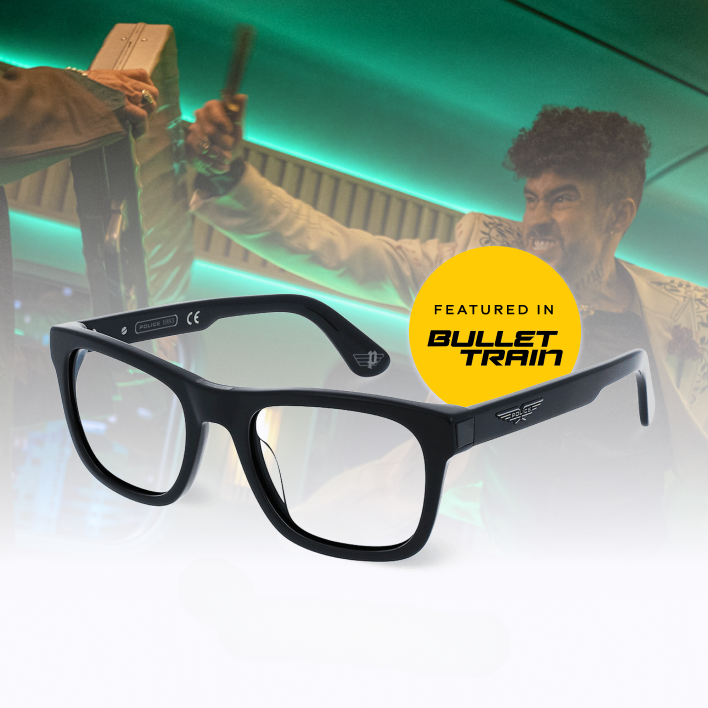
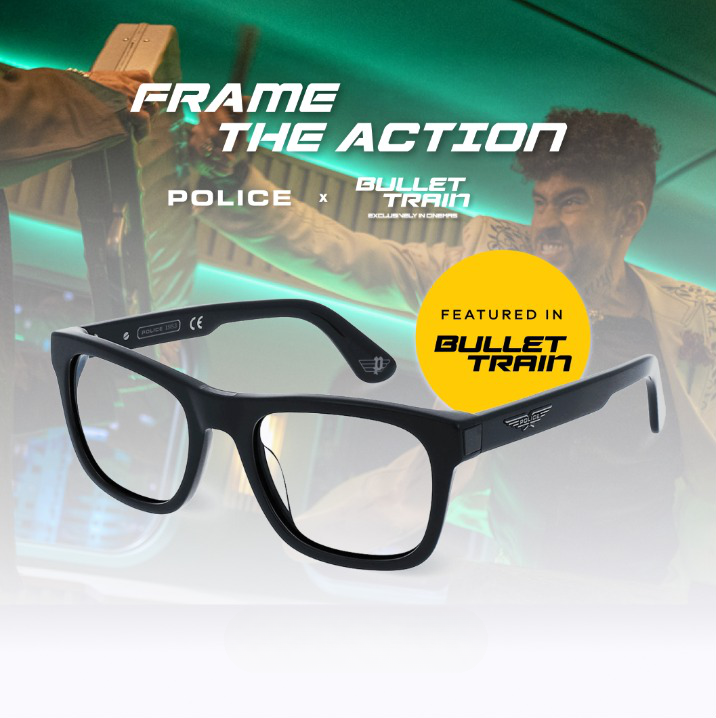
new brands and new assets in first slide

diff --git a/components/HeroWithSlider.jsx b/components/HeroWithSlider.jsx
@@ -1,6 +1,7 @@
 import Image from 'next/image'
 import {AppContext} from "../helpers/Context";
-import FirstImage from "../public/hero_banner-2.png";
+import FirstImage from "../public/FinalHero.png";
+import SecondImage from "../public/brand_and_glass.png";
 
 import Location from "../public/location1.png";
 
@@ -155,38 +156,30 @@ function HeroWithSlider() {
 
   return (
 
-    <section className="w-full md2:px-5 xl:px-0 xl:max-w-[85%] xl:mx-auto flex flex-col md:pt-20 pb-16">
+    <section className="w-full md2:px-5 xl:px-0 xl:max-w-[85%] xl:mx-auto flex flex-col md2:pt-20 pb-16">
 
       <div className="relative h-[512px] w-full grid md2:hidden">
 
         <Image
           src={FirstImage}
           alt="Alt text"
-          layout="responsive"
+          layout="fill"
           quality={100}
           priority={true}
-          className="object-cover object-right"
+          className="object-cover object-center"
         />
 
-        <div className="absolute w-[90.1%] max-w-[386px] bottom-[30.85%] left-[4.9%] xs:left-[calc(50%-193px)]">
-          <Image
-            src={Glass}
-            alt="Alt"
-            layout="intrinsic"
-            quality={100}
-            priority={true}
-            className="z-[3]"
-          />
-        </div>
-
-        <div className="absolute w-[31.54%] max-w-[136px] left-[19.6%] xs:left-[calc(51%-68px)] bottom-[58.5%] z-[4]">
-          <Image
-            src={Badge}
-            alt="Alt"
-            layout="intrinsic"
-            quality={100}
-            priority={true}
-          />
+        <div className="absolute top-10 w-full z-[2]">
+          <div className="flex flex-col w-full justify-center mx-auto max-w-[390px] relative">
+            <Image
+              src={SecondImage}
+              alt="Alt text"
+              layout="intrinsic"
+              quality={100}
+              priority={true}
+              className="object-cover object-center"
+            />
+          </div>
         </div>
 
         <div className="absolute w-full bottom-[22px] inset-x-0 flex flex-col">

diff --git a/components/Brands.jsx b/components/Brands.jsx
@@ -19,6 +19,12 @@ import JohnLogo from "../public/john_logo.svg";
 import LuckyBanner from "../public/lucky_banner.png";
 import LuckyLogo from "../public/lucky_logo.svg";
 
+import PhilippBanner from "../public/philipp_banner.png";
+import PhilippLogo from "../public/philipp_logo.svg";
+
+import ChopardBanner from "../public/chopard_banner.png";
+import ChopardLogo from "../public/chopard_logo.svg";
+
 import LeftArrow from "../public/left_arrow.svg";
 import RightArrow from "../public/right_arrow.svg";
 
@@ -51,6 +57,20 @@ const slidesArray = [
     Logo: LuckyLogo,
     href: "https://ereditaeyewear.com/collections/lucky-brand",
     maxW: 202
+  },
+  {
+    handle: "handle5",
+    banner: PhilippBanner,
+    Logo: PhilippLogo,
+    href: "https://ereditaeyewear.com/collections/philipp-plein",
+    maxW: 150
+  },
+  {
+    handle: "handle6",
+    banner: ChopardBanner,
+    Logo: ChopardLogo,
+    href: "https://ereditaeyewear.com/collections/chopard",
+    maxW: 180
   }
 
 ]
@@ -127,7 +147,7 @@ function Brands() {
                     />
                   </a>
 
-                  <a href={href} className="absolute bottom-0 h-[100px] flex-col justify-center  w-full min-h-[25px] flex">
+                  <a href={href} className="absolute bottom-0 h-[150px] flex-col justify-center  w-full min-h-[25px] flex">
 
                     <style jsx>{`
 
